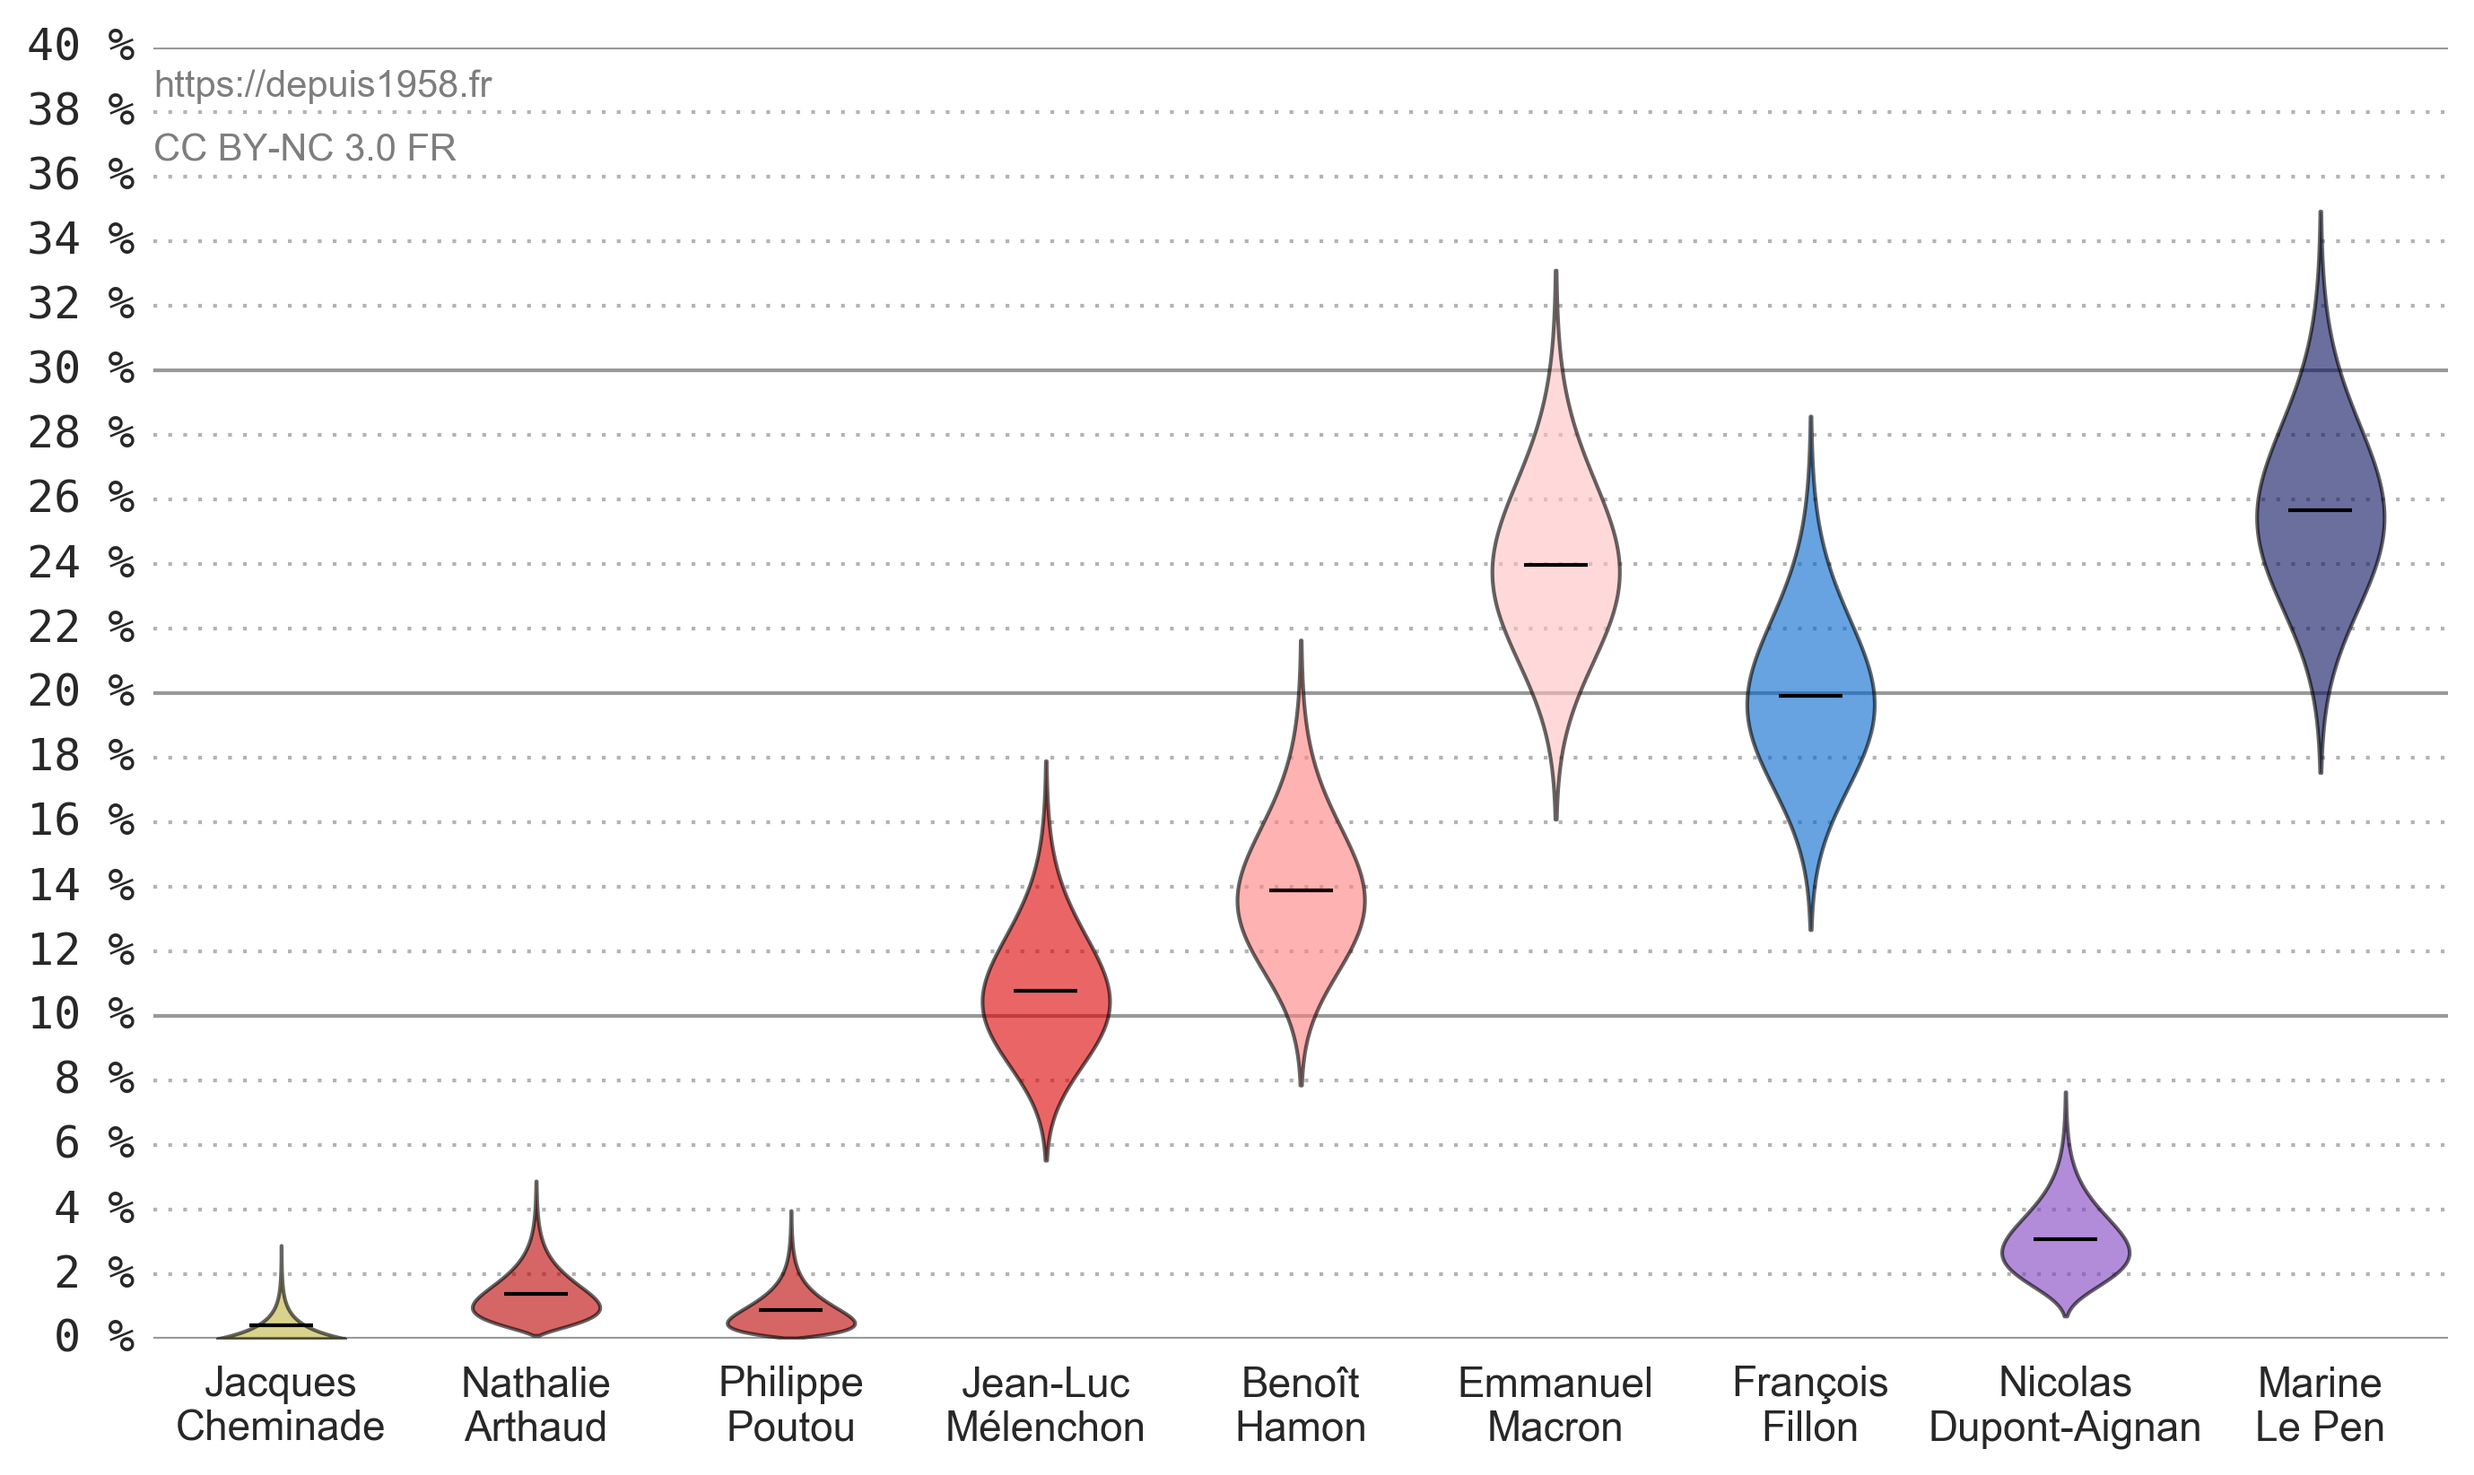
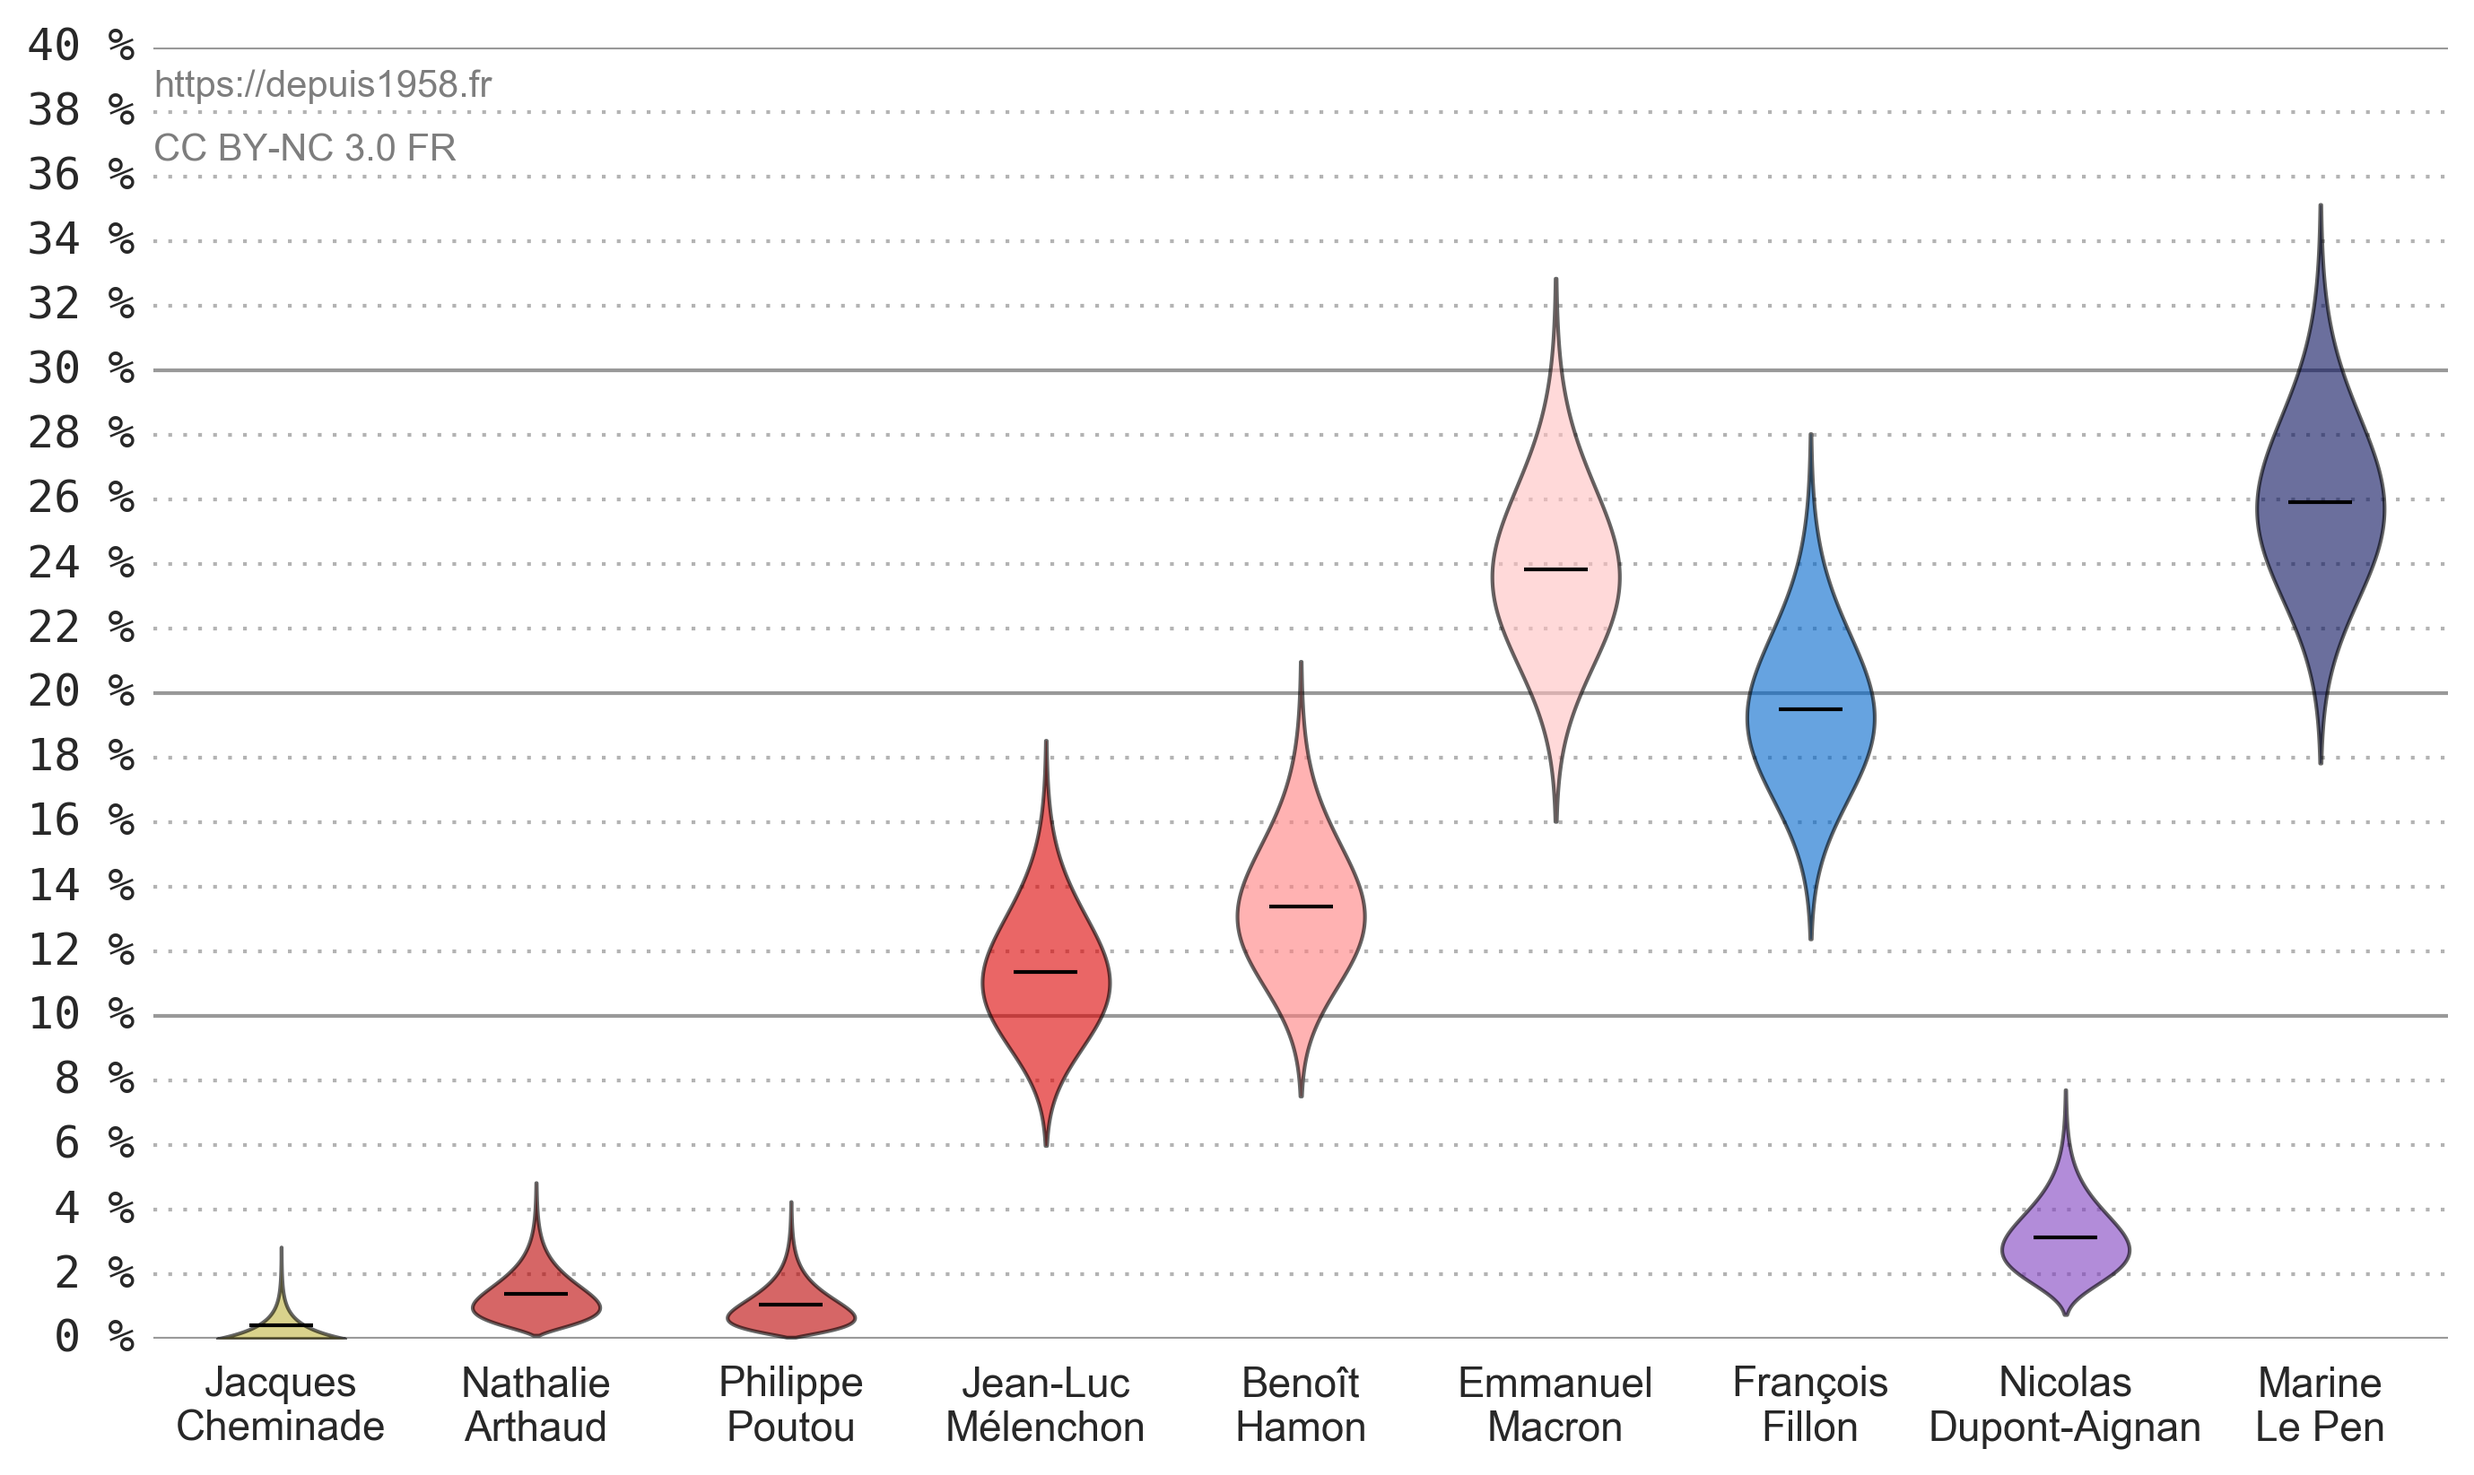
update

diff --git a/public/index.html b/public/index.html
@@ -14,8 +14,8 @@
 <img id="logo" src="/logo.png" alt="Depuis 1958">
 </a>
 <aside>
-    Mis à jour le 02/03/2017 à 00:53<br>
-    80 sondages agrégés<br>
+    Mis à jour le 02/03/2017 à 22:01<br>
+    81 sondages agrégés<br>
     5 000 000 élections simulées<br>
 </aside>
 <nav>
@@ -42,7 +42,7 @@ prédit qui va gagner. Peut&#8209;être.</p>
 
 <h2>Probabilité totale de victoire</h2>
 <figure>
-<img src="/time-plot-2017-2017-03-02T00:54:12.572388.png" alt="Probabilité totale de gagner l'élection">
+<img src="/time-plot-2017-2017-03-02T22:02:43.190679.png" alt="Probabilité totale de gagner l'élection">
 </figure>
 
 <table id="table-total">
@@ -52,7 +52,7 @@ prédit qui va gagner. Peut&#8209;être.</p>
         <div class="side-badge" style="background-color:#FFC0C0"></div>
     <strong>Emmanuel Macron</strong>
     </td>
-    <td class="column-percent column-2 percentage">84.2&nbsp;%</td>
+    <td class="column-percent column-2 percentage">85.5&nbsp;%</td>
 </tr>
 
 <tr>
@@ -60,7 +60,7 @@ prédit qui va gagner. Peut&#8209;être.</p>
         <div class="side-badge" style="background-color:#0066CC"></div>
     <strong>François Fillon</strong>
     </td>
-    <td class="column-percent column-2 percentage">14.9&nbsp;%</td>
+    <td class="column-percent column-2 percentage">13.7&nbsp;%</td>
 </tr>
 
 <tr>
@@ -76,7 +76,7 @@ prédit qui va gagner. Peut&#8209;être.</p>
         <div class="side-badge" style="background-color:#FF8080"></div>
     <strong>Benoît Hamon</strong>
     </td>
-    <td class="column-percent column-2 percentage">0.3&nbsp;%</td>
+    <td class="column-percent column-2 percentage">0.2&nbsp;%</td>
 </tr>
 
 <tr>
@@ -143,7 +143,7 @@ deux tours.</p>
 
 <tr class="">
     <td rowspan="2" class="column-percent column-1 percentage">
-        77.8&nbsp;%
+        81.0&nbsp;%
     </td>
     <td class="column-candidate column-2 inner-top">
         <div class="side-badge" style="background-color:#FFC0C0"></div>
@@ -165,14 +165,14 @@ deux tours.</p>
 
 <tr class="">
     <td rowspan="2" class="column-percent column-1 percentage">
-        15.2&nbsp;%
+        13.9&nbsp;%
     </td>
     <td class="column-candidate column-2 inner-top">
         <div class="side-badge" style="background-color:#0066CC"></div>
     <strong>François Fillon</strong>
     </td>
     <td class="column-percent column-3 inner-top percentage">
-        97.0&nbsp;%
+        97.1&nbsp;%
     </td>
 </tr>
 <tr class="">
@@ -181,13 +181,13 @@ deux tours.</p>
     <strong>Marine Le Pen</strong>
     </td>
     <td class="column-percent column-3 inner-bottom percentage">
-        3.0&nbsp;%
+        2.9&nbsp;%
     </td>
 </tr>
 
 <tr class="">
     <td rowspan="2" class="column-percent column-1 percentage">
-        6.7&nbsp;%
+        4.8&nbsp;%
     </td>
     <td class="column-candidate column-2 inner-top">
         <div class="side-badge" style="background-color:#FFC0C0"></div>
@@ -231,7 +231,7 @@ deux tours.</p>
 
 <tr class="">
     <td rowspan="2" class="column-percent column-1 percentage">
-        0.1&nbsp;%
+        0.0&nbsp;%
     </td>
     <td class="column-candidate column-2 inner-top">
         <div class="side-badge" style="background-color:#FF8080"></div>
@@ -256,28 +256,6 @@ deux tours.</p>
         0.0&nbsp;%
     </td>
     <td class="column-candidate column-2 inner-top">
-        <div class="side-badge" style="background-color:#FF8080"></div>
-    <strong>Benoît Hamon</strong>
-    </td>
-    <td class="column-percent column-3 inner-top percentage">
-        96.7&nbsp;%
-    </td>
-</tr>
-<tr class="hiddable">
-    <td class="column-candidate column-2 inner-bottom">
-        <div class="side-badge" style="background-color:#0066CC"></div>
-    <strong>François Fillon</strong>
-    </td>
-    <td class="column-percent column-3 inner-bottom percentage">
-        3.3&nbsp;%
-    </td>
-</tr>
-
-<tr class="hiddable">
-    <td rowspan="2" class="column-percent column-1 percentage">
-        0.0&nbsp;%
-    </td>
-    <td class="column-candidate column-2 inner-top">
         <div class="side-badge" style="background-color:#DD0000"></div>
     <strong>Jean-Luc Mélenchon</strong>
     </td>
@@ -292,6 +270,28 @@ deux tours.</p>
     </td>
     <td class="column-percent column-3 inner-bottom percentage">
         16.9&nbsp;%
+    </td>
+</tr>
+
+<tr class="hiddable">
+    <td rowspan="2" class="column-percent column-1 percentage">
+        0.0&nbsp;%
+    </td>
+    <td class="column-candidate column-2 inner-top">
+        <div class="side-badge" style="background-color:#FF8080"></div>
+    <strong>Benoît Hamon</strong>
+    </td>
+    <td class="column-percent column-3 inner-top percentage">
+        96.7&nbsp;%
+    </td>
+</tr>
+<tr class="hiddable">
+    <td class="column-candidate column-2 inner-bottom">
+        <div class="side-badge" style="background-color:#0066CC"></div>
+    <strong>François Fillon</strong>
+    </td>
+    <td class="column-percent column-3 inner-bottom percentage">
+        3.3&nbsp;%
     </td>
 </tr>
 
@@ -964,17 +964,17 @@ et leurs propriétés statistiques sont utilisés.</p>
     <td class="column-candidate column-1">
         <strong>Marine Le Pen</strong>
     </td>
-    <td class="column-percent percentage">93.2&nbsp;%</td>
-    <td class="column-percent percentage">6.7&nbsp;%</td>
-    <td class="column-percent percentage">99.8&nbsp;%</td>
+    <td class="column-percent percentage">95.2&nbsp;%</td>
+    <td class="column-percent percentage">4.8&nbsp;%</td>
+    <td class="column-percent percentage">99.9&nbsp;%</td>
 </tr>
 
 <tr>
     <td class="column-candidate column-1">
         <strong>Emmanuel Macron</strong>
     </td>
-    <td class="column-percent percentage">84.6&nbsp;%</td>
-    <td class="column-percent percentage">15.1&nbsp;%</td>
+    <td class="column-percent percentage">85.9&nbsp;%</td>
+    <td class="column-percent percentage">13.8&nbsp;%</td>
     <td class="column-percent percentage">-</td>
 </tr>
 
@@ -982,17 +982,17 @@ et leurs propriétés statistiques sont utilisés.</p>
     <td class="column-candidate column-1">
         <strong>François Fillon</strong>
     </td>
-    <td class="column-percent percentage">21.8&nbsp;%</td>
-    <td class="column-percent percentage">72.5&nbsp;%</td>
-    <td class="column-percent percentage">0.4&nbsp;%</td>
+    <td class="column-percent percentage">18.7&nbsp;%</td>
+    <td class="column-percent percentage">75.8&nbsp;%</td>
+    <td class="column-percent percentage">0.3&nbsp;%</td>
 </tr>
 
 <tr>
     <td class="column-candidate column-1">
         <strong>Benoît Hamon</strong>
     </td>
-    <td class="column-percent percentage">0.3&nbsp;%</td>
-    <td class="column-percent percentage">5.4&nbsp;%</td>
+    <td class="column-percent percentage">0.2&nbsp;%</td>
+    <td class="column-percent percentage">4.7&nbsp;%</td>
     <td class="column-percent percentage">0.0&nbsp;%</td>
 </tr>
 
@@ -1001,8 +1001,8 @@ et leurs propriétés statistiques sont utilisés.</p>
         <strong>Jean-Luc Mélenchon</strong>
     </td>
     <td class="column-percent percentage">0.0&nbsp;%</td>
-    <td class="column-percent percentage">0.4&nbsp;%</td>
-    <td class="column-percent percentage">41.7&nbsp;%</td>
+    <td class="column-percent percentage">0.9&nbsp;%</td>
+    <td class="column-percent percentage">53.0&nbsp;%</td>
 </tr>
 
 <tr>
@@ -1011,7 +1011,7 @@ et leurs propriétés statistiques sont utilisés.</p>
     </td>
     <td class="column-percent percentage">0.0&nbsp;%</td>
     <td class="column-percent percentage">0.0&nbsp;%</td>
-    <td class="column-percent percentage">89.2&nbsp;%</td>
+    <td class="column-percent percentage">89.3&nbsp;%</td>
 </tr>
 
 <tr>
@@ -1020,7 +1020,7 @@ et leurs propriétés statistiques sont utilisés.</p>
     </td>
     <td class="column-percent percentage">0.0&nbsp;%</td>
     <td class="column-percent percentage">0.0&nbsp;%</td>
-    <td class="column-percent percentage">55.4&nbsp;%</td>
+    <td class="column-percent percentage">54.9&nbsp;%</td>
 </tr>
 
 <tr>
@@ -1029,7 +1029,7 @@ et leurs propriétés statistiques sont utilisés.</p>
     </td>
     <td class="column-percent percentage">0.0&nbsp;%</td>
     <td class="column-percent percentage">0.0&nbsp;%</td>
-    <td class="column-percent percentage">89.1&nbsp;%</td>
+    <td class="column-percent percentage">90.6&nbsp;%</td>
 </tr>
 
 <tr>
@@ -1038,7 +1038,7 @@ et leurs propriétés statistiques sont utilisés.</p>
     </td>
     <td class="column-percent percentage">0.0&nbsp;%</td>
     <td class="column-percent percentage">0.0&nbsp;%</td>
-    <td class="column-percent percentage">27.7&nbsp;%</td>
+    <td class="column-percent percentage">37.0&nbsp;%</td>
 </tr>
 
 </table>

diff --git a/public/2012/index.html b/public/2012/index.html
@@ -14,7 +14,7 @@
 <img id="logo" src="/logo.png" alt="Depuis 1958">
 </a>
 <aside>
-    Mis à jour le 02/03/2017 à 00:48<br>
+    Mis à jour le 02/03/2017 à 21:56<br>
     133 sondages agrégés<br>
     5 000 000 élections simulées<br>
 </aside>
@@ -42,7 +42,7 @@ prédit qui va gagner. Peut&#8209;être.</p>
 
 <h2>Probabilité totale de victoire</h2>
 <figure>
-<img src="/time-plot-2012-2017-03-02T00:50:42.512876.png" alt="Probabilité totale de gagner l'élection">
+<img src="/time-plot-2012-2017-03-02T21:58:56.246946.png" alt="Probabilité totale de gagner l'élection">
 </figure>
 
 <table id="table-total">
@@ -1172,7 +1172,7 @@ et leurs propriétés statistiques sont utilisés.</p>
     </td>
     <td class="column-percent percentage">100.0&nbsp;%</td>
     <td class="column-percent percentage">0.0&nbsp;%</td>
-    <td class="column-percent percentage">31.1&nbsp;%</td>
+    <td class="column-percent percentage">31.2&nbsp;%</td>
 </tr>
 
 <tr>
@@ -1181,7 +1181,7 @@ et leurs propriétés statistiques sont utilisés.</p>
     </td>
     <td class="column-percent percentage">99.9&nbsp;%</td>
     <td class="column-percent percentage">0.1&nbsp;%</td>
-    <td class="column-percent percentage">29.9&nbsp;%</td>
+    <td class="column-percent percentage">29.8&nbsp;%</td>
 </tr>
 
 <tr>
@@ -1216,8 +1216,8 @@ et leurs propriétés statistiques sont utilisés.</p>
         <strong>François Bayrou</strong>
     </td>
     <td class="column-percent percentage">0.0&nbsp;%</td>
-    <td class="column-percent percentage">0.9&nbsp;%</td>
-    <td class="column-percent percentage">74.4&nbsp;%</td>
+    <td class="column-percent percentage">1.0&nbsp;%</td>
+    <td class="column-percent percentage">74.5&nbsp;%</td>
 </tr>
 
 <tr>
@@ -1244,7 +1244,7 @@ et leurs propriétés statistiques sont utilisés.</p>
     </td>
     <td class="column-percent percentage">0.0&nbsp;%</td>
     <td class="column-percent percentage">0.0&nbsp;%</td>
-    <td class="column-percent percentage">62.9&nbsp;%</td>
+    <td class="column-percent percentage">63.0&nbsp;%</td>
 </tr>
 
 <tr>
@@ -1253,7 +1253,7 @@ et leurs propriétés statistiques sont utilisés.</p>
     </td>
     <td class="column-percent percentage">0.0&nbsp;%</td>
     <td class="column-percent percentage">0.0&nbsp;%</td>
-    <td class="column-percent percentage">72.7&nbsp;%</td>
+    <td class="column-percent percentage">72.8&nbsp;%</td>
 </tr>
 
 </table>

diff --git a/public/apropos/index.html b/public/apropos/index.html
@@ -14,8 +14,8 @@
 <img id="logo" src="/logo.png" alt="Depuis 1958">
 </a>
 <aside>
-    Mis à jour le 02/03/2017 à 00:53<br>
-    80 sondages agrégés<br>
+    Mis à jour le 02/03/2017 à 22:01<br>
+    81 sondages agrégés<br>
     5 000 000 élections simulées<br>
 </aside>
 <nav>

diff --git a/public/methodologie/index.html b/public/methodologie/index.html
@@ -16,8 +16,8 @@
 <img id="logo" src="/logo.png" alt="Depuis 1958">
 </a>
 <aside>
-    Mis à jour le 02/03/2017 à 00:53<br>
-    80 sondages agrégés<br>
+    Mis à jour le 02/03/2017 à 22:01<br>
+    81 sondages agrégés<br>
     5 000 000 élections simulées<br>
 </aside>
 <nav>

diff --git a/public/sondages/index.html b/public/sondages/index.html
@@ -13,8 +13,8 @@
 <img id="logo" src="/logo.png" alt="Depuis 1958">
 </a>
 <aside>
-    Mis à jour le 02/03/2017 à 00:53<br>
-    80 sondages agrégés<br>
+    Mis à jour le 02/03/2017 à 22:01<br>
+    81 sondages agrégés<br>
     5 000 000 élections simulées<br>
 </aside>
 <nav>
